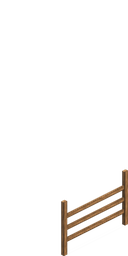
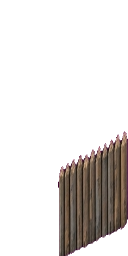
York is whitewashed log inside a stake palisade: the Gemini factory-segment sheet fitted onto the building tiles (walls, windows, doors open and shut, corners, and the fence as a palisade a house wall high), each piece stretched onto the old tile's exact edges so every corner and line of the fort st

Changed region(s): [[0.4375, 0.5, 1.0, 1.0]]

diff --git a/tools/sprites/walls.py b/tools/sprites/walls.py
@@ -1,0 +1,168 @@
+"""Fit the Gemini "Factory Segment Sprites" sheet onto the building tiles.
+
+The game paints walls and the fort's fence from 128x256 tiles (the old
+Kenney set) in assets/tiles/buildings/: each wall piece fills one half of a
+tile and runs along one edge of its ground diamond at the 2:1 iso slope.
+Gemini drew the whitewashed log walls and the palisade flatter than that, so
+a plain resize would leave gaps at every corner. Instead each piece is
+stretched column by column so its top and bottom edges land exactly on the
+top and bottom edges of the tile it replaces, and corners, joins and the
+tile's place on the ground stay what they were.
+
+  python walls.py            write the tiles (the Kenney originals are in git)
+  python walls.py review     also write tools/sprites/out/review_walls.png
+"""
+import os, sys
+import numpy as np
+from PIL import Image, ImageDraw
+from scipy import ndimage
+
+HERE = os.path.dirname(os.path.abspath(__file__))
+ROOT = os.path.abspath(os.path.join(HERE, "..", ".."))
+SHEET = os.path.join(ROOT, "assets", "external", "NEW HBC ASSETS", "Facotry Segment Sprites.jpg")
+TILES = os.path.join(ROOT, "assets", "tiles", "buildings")
+sys.path.insert(0, HERE)
+import slice as sl
+
+# (top, left, height, width) of each piece on the sheet, from scipy labelling.
+PIECES = {
+    "white_dl": (34, 25, 116, 107), "white_dr": (34, 163, 116, 108),
+    "white_window_dl": (31, 580, 117, 106), "white_window_dr": (31, 700, 117, 106),
+    "white_door_dl": (184, 24, 119, 107), "white_door_open_dl": (180, 159, 119, 107),
+    "white_door_dr": (181, 447, 119, 107), "white_door_open_dr": (183, 580, 119, 107),
+    "palisade_dl": (34, 865, 142, 109), "palisade_dr": (34, 1031, 140, 110),
+}
+
+
+def piece(sheet, name, pad=3):
+    t, l, h, w = PIECES[name]
+    rgb = sheet[t - pad: t + h + pad, l - pad: l + w + pad]
+    fg = sl.key_magenta(rgb)
+    # Keep the biggest blob: no stray label letters.
+    lab, n = ndimage.label(fg)
+    if n > 1:
+        sizes = ndimage.sum(fg, lab, range(1, n + 1))
+        fg = lab == (1 + int(np.argmax(sizes)))
+    # (no hole filling: the window panes are magenta, i.e. see-through)
+    rgba = np.dstack([rgb, (fg * 255).astype(np.uint8)])
+    rgba = sl.despill(rgba)
+    # Window panes are drawn magenta: glaze them dark rather than leave holes.
+    a = rgba[..., 3] > 0
+    panes = ndimage.binary_fill_holes(a) & ~a
+    rgba[panes] = (46, 56, 66, 255)
+    ys, xs = np.nonzero(rgba[..., 3])
+    return rgba[ys.min(): ys.max() + 1, xs.min(): xs.max() + 1]
+
+
+def edges(rgba, inner=0.2):
+    """The top and bottom edges as lines y = a + b*x, fitted over the middle
+    of the piece so the posts and their caps at either end don't bend them."""
+    a = rgba[..., 3] > 0
+    w = a.shape[1]
+    xs, tops, bots = [], [], []
+    for x in range(int(w * inner), int(w * (1 - inner))):
+        col = np.nonzero(a[:, x])[0]
+        if len(col) < 4: continue
+        xs.append(x); tops.append(col.min()); bots.append(col.max())
+    xs = np.array(xs, float)
+    bt = np.polyfit(xs, tops, 1); bb = np.polyfit(xs, bots, 1)
+    return (bt[1], bt[0]), (bb[1], bb[0])   # (intercept, slope)
+
+
+def fit(src, dst_box, dst_top, dst_bot, size=(128, 256)):
+    """Resample src so that, column by column, its top/bottom edge lines land
+    on dst_top/dst_bot (lines in tile coordinates) across dst_box's x span."""
+    (st0, st1), (sb0, sb1) = edges(src)
+    x0, x1 = dst_box
+    out = np.zeros((size[1], size[0], 4), np.float32)
+    sw = src.shape[1]
+    srcf = src.astype(np.float32)
+    srcf[..., :3] *= srcf[..., 3:4] / 255.0   # premultiply
+    Y = np.arange(size[1], dtype=np.float32)
+    for X in range(x0, x1 + 1):
+        x = (X - x0) / max(1, (x1 - x0)) * (sw - 1)
+        ts, bs = st0 + st1 * x, sb0 + sb1 * x
+        td, bd = dst_top[0] + dst_top[1] * X, dst_bot[0] + dst_bot[1] * X
+        y = ts + (Y - td) / max(1e-3, (bd - td)) * (bs - ts)
+        coords = np.vstack([y, np.full_like(y, x)])
+        for c in range(4):
+            out[:, X, c] = ndimage.map_coordinates(srcf[..., c], coords, order=1, mode="constant", cval=0)
+    a = out[..., 3:4]
+    out[..., :3] = np.where(a > 0, out[..., :3] / np.maximum(a, 1e-3) * 255.0, 0)
+    out = np.clip(out, 0, 255).astype(np.uint8)
+    out[out[..., 3] < 40] = 0
+    return out
+
+
+def geometry(path):
+    """Where a Kenney tile's piece sits: its x span and its edge lines."""
+    k = np.array(Image.open(path).convert("RGBA"))
+    ys, xs = np.nonzero(k[..., 3])
+    x0, x1 = xs.min(), xs.max()
+    (t0, t1), (b0, b1) = edges(k[:, x0: x1 + 1])
+    # back to tile coordinates
+    return (x0, x1), (t0 - t1 * x0, t1), (b0 - b1 * x0, b1)
+
+
+def slope_kind(path):
+    _, _, (b0, b1) = geometry(path)
+    return "dr" if b1 > 0 else "dl"   # bottom edge falling to the right = "\"
+
+
+def build(review=False):
+    sheet = np.array(Image.open(SHEET).convert("RGB"))
+    kenney = {f[:-4]: os.path.join(TILES, f) for f in os.listdir(TILES) if f.endswith(".png")}
+    made = {}
+
+    def make(tile, src_name, tall_from=None, geo_from=None):
+        # Windows and doors stand where the plain wall of that side does; an
+        # open door's swing would throw the fit off, so use the plain wall.
+        box, top, bot = geometry(kenney[geo_from or tile])
+        if tall_from:   # a palisade stands as tall as a house wall, on the fence's line
+            _, wtop, wbot = geometry(kenney[tall_from])
+            h = (wbot[0] - wtop[0])
+            top = (bot[0] - h, bot[1])
+        img = fit(piece(sheet, src_name), box, top, bot)
+        made[tile] = img
+        return img
+
+    # The geometry is read from the Kenney originals, so build everything
+    # first and write at the end (corners are composed from the new walls).
+    for side in "NESW":
+        kind = slope_kind(kenney[f"wall_{side}"])
+        make(f"wall_{side}", f"white_{kind}")
+        make(f"wall_window_{side}", f"white_window_{kind}", geo_from=f"wall_{side}")
+        make(f"wall_door_{side}", f"white_door_{kind}", geo_from=f"wall_{side}")
+        make(f"wall_door_open_{side}", f"white_door_open_{kind}", geo_from=f"wall_{side}")
+        make(f"fence_{side}", f"palisade_{slope_kind(kenney[f'fence_{side}'])}", tall_from=f"wall_{side}")
+
+    def compose(a, b):
+        out = Image.fromarray(made[a]); out.alpha_composite(Image.fromarray(made[b])); return np.array(out)
+    # The two-wall corner pieces: the back pair and the front pair.
+    made["wall_corner_back"] = compose("wall_E", "wall_S")
+    made["wall_corner_front"] = compose("wall_N", "wall_W")
+    made["fence_corner_back"] = compose("fence_E", "fence_S")
+    made["fence_corner_front"] = compose("fence_N", "fence_W")
+
+    for tile, img in made.items():
+        Image.fromarray(img).save(kenney[tile])
+    print(f"wrote {len(made)} tiles: {', '.join(sorted(made))}")
+
+    if review:
+        os.makedirs(sl.OUT, exist_ok=True)
+        names = sorted(made)
+        cw, ch, W = 140, 280, 8
+        rows = (len(names) + W - 1) // W
+        sheet_im = Image.new("RGBA", (W * cw, rows * ch), (90, 140, 90, 255))
+        d = ImageDraw.Draw(sheet_im)
+        for i, n in enumerate(names):
+            x, y = (i % W) * cw, (i // W) * ch
+            # the ground diamond the piece stands on
+            d.polygon([(x + 6, y + 224), (x + 70, y + 192), (x + 134, y + 224), (x + 70, y + 256)], outline=(40, 60, 40))
+            sheet_im.alpha_composite(Image.fromarray(made[n]), (x + 6, y))
+            d.text((x + 4, y + 262), n, fill=(0, 0, 0))
+        p = os.path.join(sl.OUT, "review_walls.png"); sheet_im.save(p); print(p)
+
+
+if __name__ == "__main__":
+    build(review="review" in sys.argv)

diff --git a/docs/asset-inventory.md b/docs/asset-inventory.md
@@ -107,9 +107,9 @@ Painted through `terrain_tileset.tres` (61 texture sources) by `TerrainPainter` 
 
 `dirt` `grass` `hill` `ice` `road` `sand` `snow` `stone_floor` `water` `water_ice` (132×99, Kenney Isometric Landscape, CC0). All ten are in the tileset. Still stock: flat colour, no edge transitions, no marsh or muskeg ground, no rock. `road.png` is new since the last pass.
 
-### Buildings — **Placeholder**
+### Buildings — walls and palisade **Final** (2026-10-11), floor and roofs **Placeholder**
 
-30 wall/door/window/fence/floor/roof tiles, all Kenney (CC0). Generic European stone and plaster where York Factory wants squared log and whitewashed plank; the palisade is still fenced rather than stockaded. The 8 directional `roof_*` / `roof_corner_*` tiles remain **unwired** — only flat `roof.png` is in the tileset.
+The 24 wall, window, door, open-door and corner tiles are now the **whitewashed log set**, and the 6 fence tiles are now the **palisade** (pointed stakes, as tall as a house wall), both from the Gemini sheet `NEW HBC ASSETS/Facotry Segment Sprites.jpg`. `tools/sprites/walls.py` fits each piece onto the old Kenney tile's exact edges, so corners and the fort's lines are unchanged (Kenney originals are in git history). Still Kenney: `floor_planks`, `roof` and the roof pieces. Still unused on that sheet: the weathered log set (for the Nor'Westers' house and the inland posts), the palisade gates, and the grey plank floor and steep roof tiles. The 8 directional `roof_*` / `roof_corner_*` tiles remain **unwired** — only flat `roof.png` is in the tileset.
 
 ### Furniture — mixed
 

diff --git a/docs/world-content-needed.md b/docs/world-content-needed.md
@@ -151,7 +151,7 @@ Fort Pitt 1829, Fort Pelly 1824, Fort Ellice 1831, Fort Qu'Appelle 1864, Upper/L
 
 | Needed | Priority | Notes |
 |---|---|---|
-| **Log / squared-timber wall set** to replace the Kenney stone | P1 | York was wood: piece-sur-pièce and log construction, plank roofs, palisade. Also listed in `asset-inventory.md`. |
+| ~~**Log / squared-timber wall set**~~ **done 2026-10-11** | P1 | Whitewashed log walls and a stake palisade, fitted from the Gemini sheet by `tools/sprites/walls.py`. Next: the weathered set for the NWC house and inland posts, palisade gates, plank roofs. |
 | **York Factory buildings by name** | P1 | The Factor's house, the men's house, the trade store and warehouse, the provision store, the cooper's and blacksmith's shops, the boat shed, the powder magazine, the observatory and flagpole, the graveyard, the "Homeguard" Cree tents outside the walls. |
 | **Interiors** | P1 | Men's house, Factor's mess and office, trade room (with the trading window and counter), store. Furniture beyond Kenney's library set. |
 | **Indigenous dwellings** | P1 | Cree conical lodges covered in birchbark or moose/caribou hide; summer vs winter lodge. Plains tipis (Assiniboine, Blackfoot) for P2. Ojibwe wigwams. Drying racks, smoking racks, caches on stilts (cache prop exists). |
